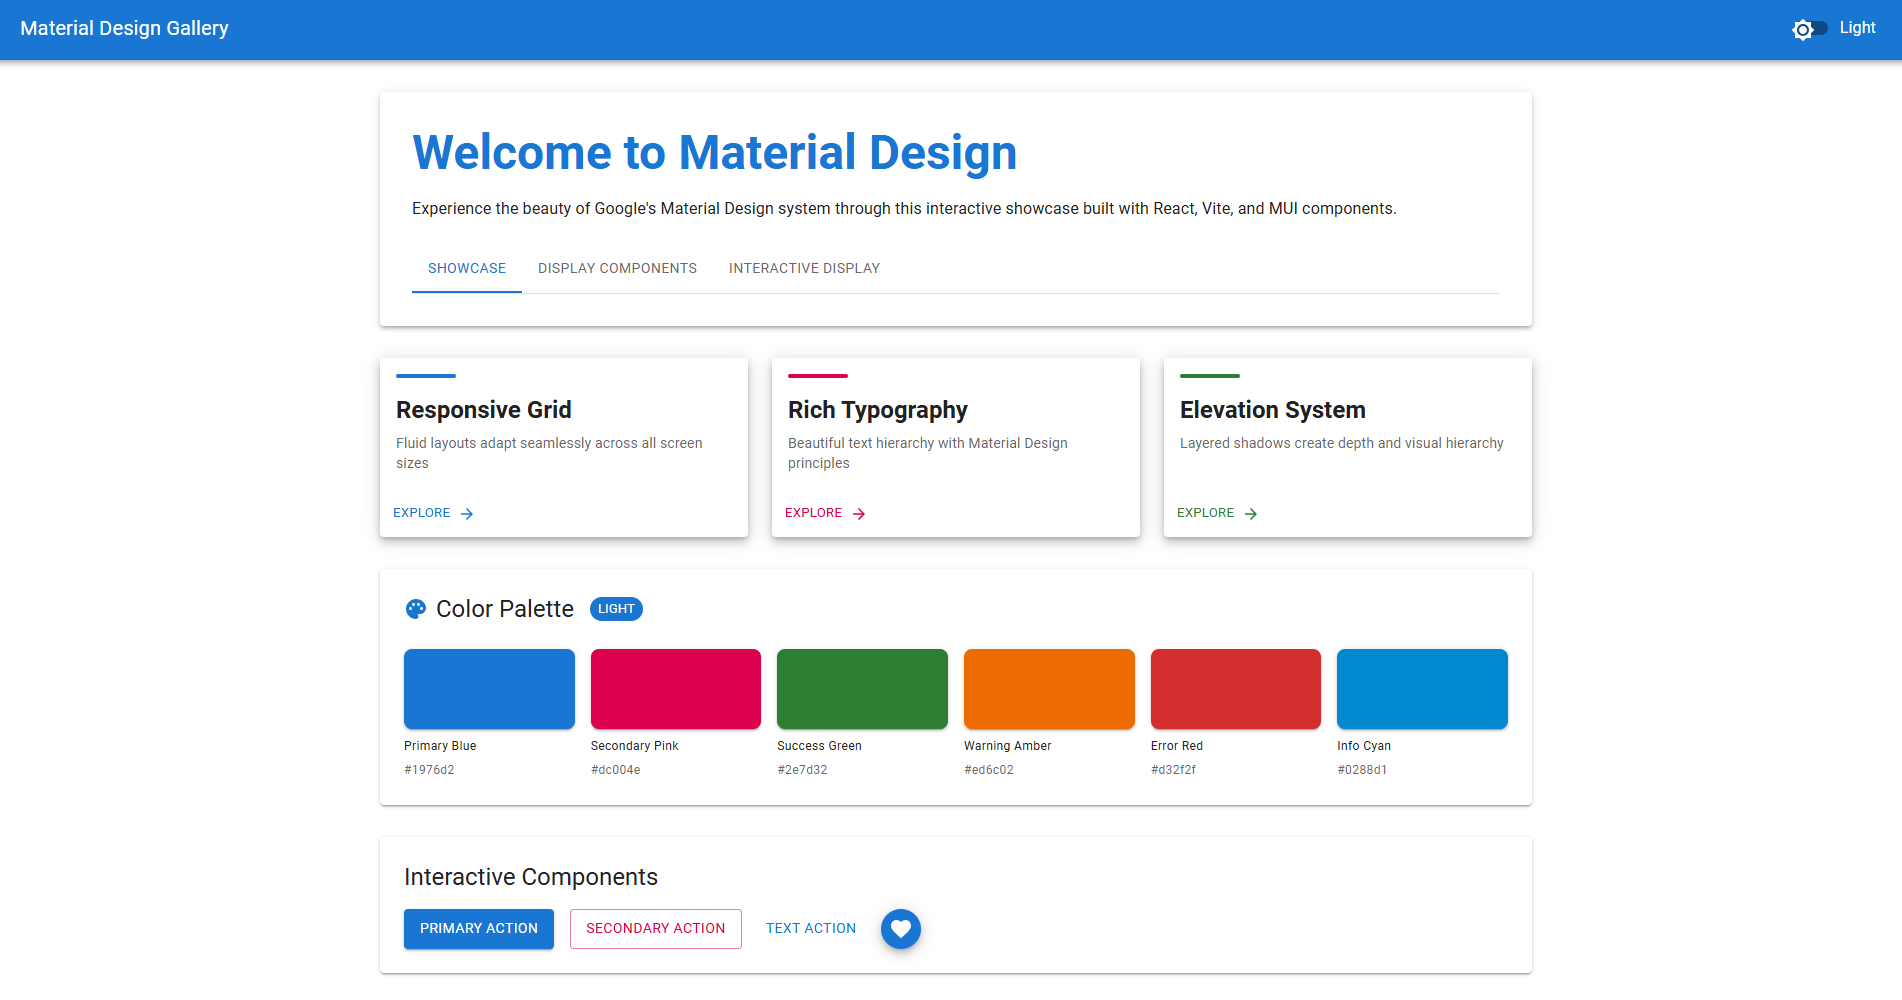
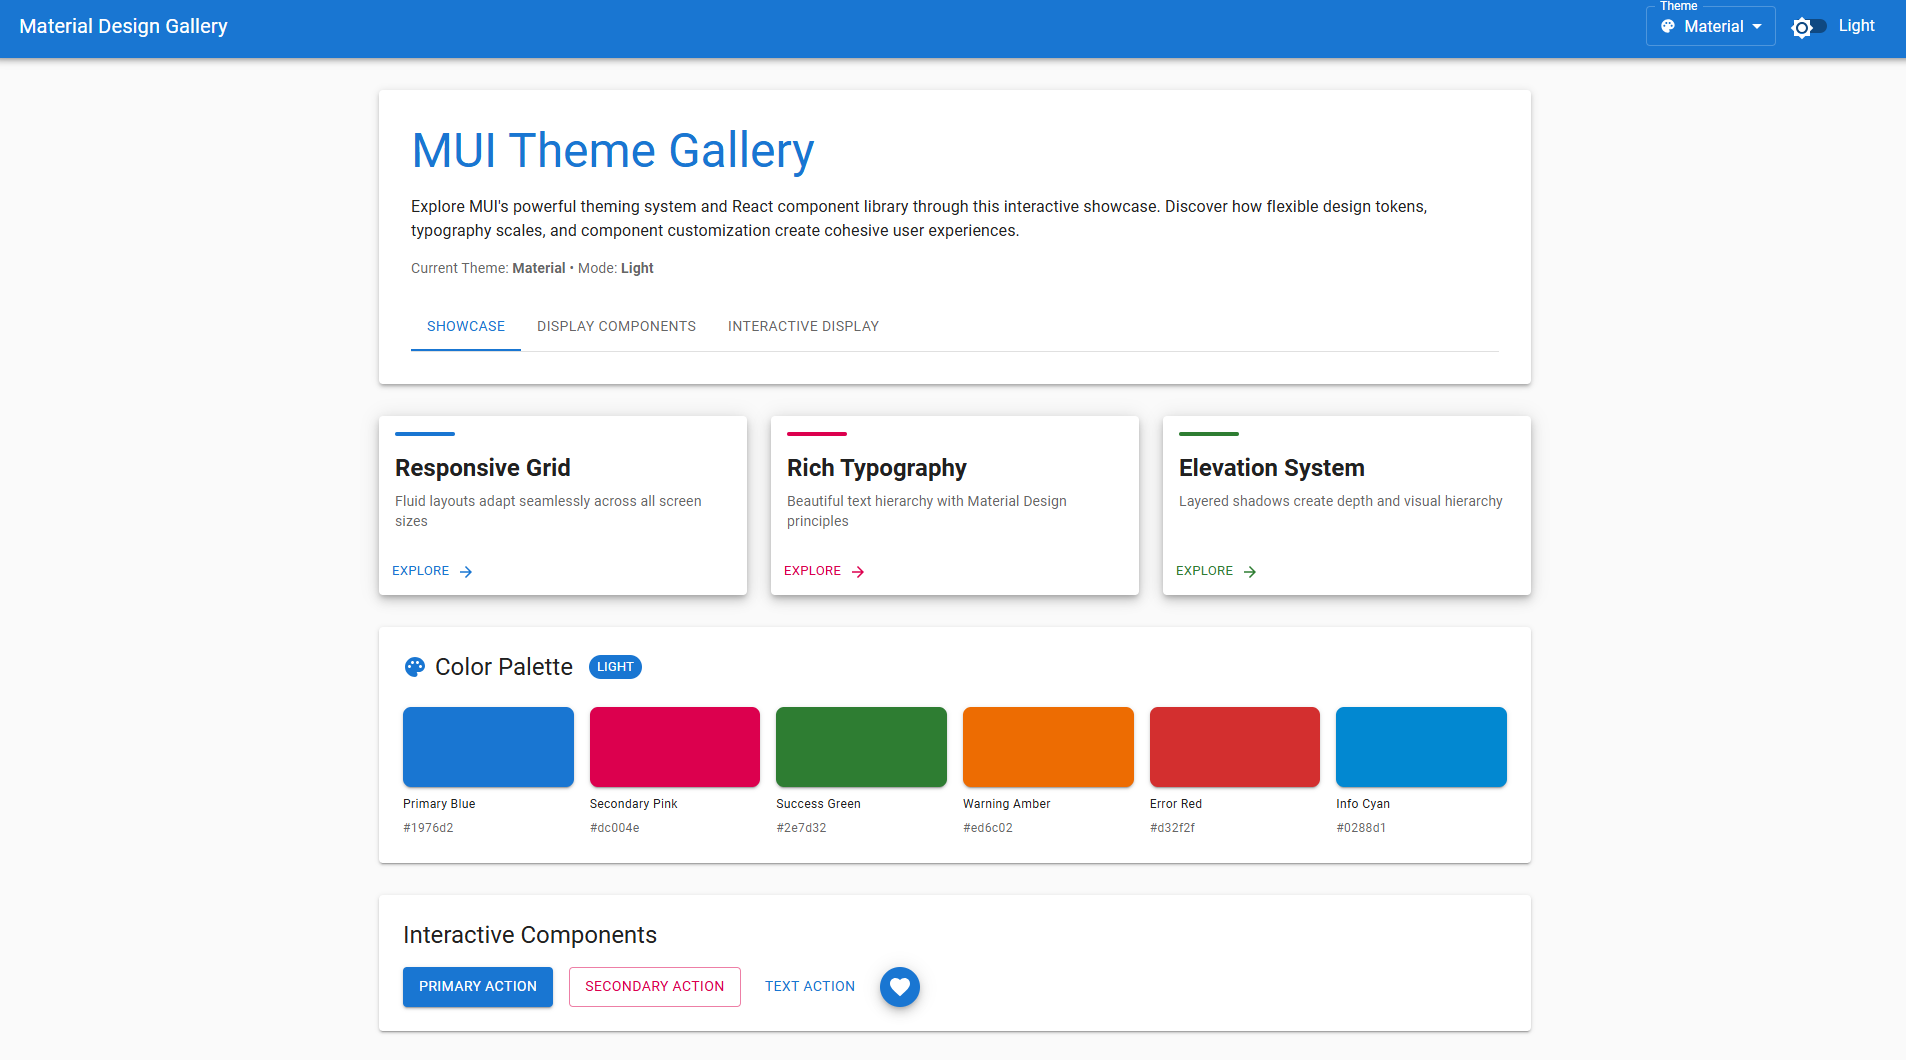
Update documentation to focus on MUI instead of Google Material Design
- Rebrand project title to 'MUI Theme Gallery'
- Remove all references to Google and Material Design principles
- Add comprehensive theme system documentation with 7 themes
- Update features list to highlight theme switching capabilities
- Add theme usage instructions and implementation details
- Update project structure to show new themes directory
- Focus messaging entirely on MUI's philosophy and capabilities
- Update asset descriptions to reflect MUI theming focus

Changed region(s): [[0.1861, 0.124, 0.8065, 0.837], [0.0, 0.0, 1.0, 0.062], [0.2171, 0.868, 0.4963, 0.961]]

diff --git a/README.md b/README.md
@@ -1,6 +1,6 @@
-# material-design
+# MUI Theme Gallery
 
-A beautiful Single Page Application (SPA) showcasing Google's Material Design principles, built with React, Vite, and Material-UI (MUI). Features an interactive electronic parts catalog with drag-and-drop functionality.
+A comprehensive Single Page Application (SPA) showcasing MUI's powerful theming system and React components. Features 7 beautiful themes, interactive electronic parts catalog with drag-and-drop, and circuit board explorer.
 
 ![Material UI](https://img.shields.io/badge/Material--UI-7-0081CB.svg?style=for-the-badge&logo=mui&logoColor=white)
 ![Vercel](https://img.shields.io/badge/vercel-%23000000.svg?style=for-the-badge&logo=vercel&logoColor=white)
@@ -13,26 +13,27 @@ A beautiful Single Page Application (SPA) showcasing Google's Material Design pr
 
 **[View Live Application](https://material-design-ten.vercel.app/)**
 
-The application is deployed on Vercel and showcases all Material Design features including interactive components, drag-and-drop catalog, and circuit board explorer.
+The application is deployed on Vercel and showcases MUI's theming capabilities, component library, and interactive features including drag-and-drop catalog and circuit board explorer.
 
 ## 📸 Screenshot
 
-![Material Design Showcase](assets/demo-preview.png)
-_Main application interface showcasing Material Design components and dark/light theme toggle_
+![MUI Theme Gallery](assets/demo-preview.png)
+_Main application interface showcasing MUI components with theme selector and dark/light mode toggle_
 
 ## 🎬 Demo
 
-![Material Design Demo](assets/drag-drop-demo.gif)
-_Interactive demonstration of drag-and-drop and reorder feature_
+![MUI Theme Demo](assets/drag-drop-demo.gif)
+_Interactive demonstration of theme switching, drag-and-drop, and component features_
 
 ## Features
 
-- 🎨 **Material Design Components** - Comprehensive showcase of MUI components
-- 🌓 **Dark/Light Theme Toggle** - Switch between themes seamlessly
-- 📱 **Responsive Design** - Fully responsive layout using CSS Grid
+- 🎨 **7 Beautiful Themes** - Material, Indigo & Amber, Slate & Cyan, Ella, Ocean, Forest, Sunset
+- 🔄 **Live Theme Switching** - Instantly change themes via dropdown selector
+- 🌓 **Dark/Light Mode Toggle** - All themes support both light and dark modes
+- 🎭 **MUI Component Showcase** - Comprehensive display of MUI's React components
+- 📱 **Responsive Design** - Fully responsive layout using CSS Grid and MUI breakpoints
 - ⚡ **Fast Development** - Powered by Vite for instant HMR
-- 🎭 **Interactive UI** - Buttons, cards, FABs, and more
-- 🎨 **Color Palette** - Display of Material Design color system
+- 🎨 **Design Token System** - Demonstrates MUI's flexible theming architecture
 - 📦 **Electronic Parts Catalog** - Interactive product catalog with detailed specifications
 - 🔄 **Drag & Drop** - Reorder catalog items in both list and grid views
 - 📋 **Dual Display Modes** - Switch between List and Grid views with navigation tabs
@@ -41,6 +42,37 @@ _Interactive demonstration of drag-and-drop and reorder feature_
 - 🔌 **Interactive Circuit Board Explorer** - Visual circuit board with clickable components
 - 🎯 **Component Highlighting** - Select components to highlight on circuit board with golden glow
 - 📊 **Multi-Board Selection** - Choose between different circuit board designs
+
+## 🎨 Theme System
+
+This showcase features MUI's powerful theming capabilities with 7 carefully crafted themes:
+
+### Available Themes
+
+1. **Material** (Default) - Classic MUI styling with blue and red palette
+2. **Indigo & Amber** - Professional indigo with vibrant amber accents
+3. **Slate & Cyan** - Modern gray-slate with fresh cyan highlights
+4. **Ella** - Soft feminine pink and purple with rounded corners
+5. **Ocean** - Cool blues and teals for refreshing interfaces
+6. **Forest** - Natural greens and earth tones
+7. **Sunset** - Warm oranges and reds for energetic designs
+
+### Theme Features
+
+- **Live Switching**: Change themes instantly via dropdown in the AppBar
+- **Dark/Light Support**: All themes work in both light and dark modes
+- **Component Customization**: Each theme includes custom styling for cards, buttons, and more
+- **Typography Scales**: Unique font families and hierarchies per theme
+- **Design Tokens**: Demonstrates MUI's systematic approach to design consistency
+- **Extensible Architecture**: Easy to add new themes by extending the theme system
+
+### Implementation
+
+Themes are centrally managed in `src/themes/index.js` using MUI's `createTheme` API:
+
+```javascript
+const customTheme = createCustomTheme(selectedTheme, isDarkMode)
+```
 
 ## Tech Stack
 
@@ -111,6 +143,8 @@ npm run preview
 ```
 material-design/
 ├── src/
+│   ├── themes/
+│   │   └── index.js                   # Theme system with 7 themes
 │   ├── components/
 │   │   ├── FeatureShowcaseCard.jsx    # Feature card component
 │   │   ├── ColorPaletteDisplay.jsx    # Color palette component
@@ -133,8 +167,10 @@ material-design/
 
 The main application component featuring:
 
-- AppBar with theme toggle
-- Welcome section with navigation tabs
+- AppBar with theme selector dropdown and dark/light toggle
+- Welcome section highlighting MUI's theming philosophy
+- Theme status display showing current theme and mode
+- Navigation tabs for different showcase sections
 - Showcase mode: Feature cards grid, color palette, interactive components
 - Display Components mode: Electronic parts catalog with list/grid toggle
 - Interactive Display mode: Circuit board explorer with component highlighting
@@ -180,9 +216,16 @@ Reusable card component with hover effects and action buttons.
 
 ### ColorPaletteDisplay
 
-Visual display of Material Design color palette with all theme colors.
+Visual display of the current theme's color palette with all theme colors.
 
 ## Usage
+
+### Theme Switching
+
+- Use the **Theme dropdown** in the AppBar to select from 7 available themes
+- Toggle between **Dark/Light modes** using the theme toggle switch
+- Changes apply instantly across all components
+- Current theme and mode are displayed in the welcome section
 
 ### Navigation
 
